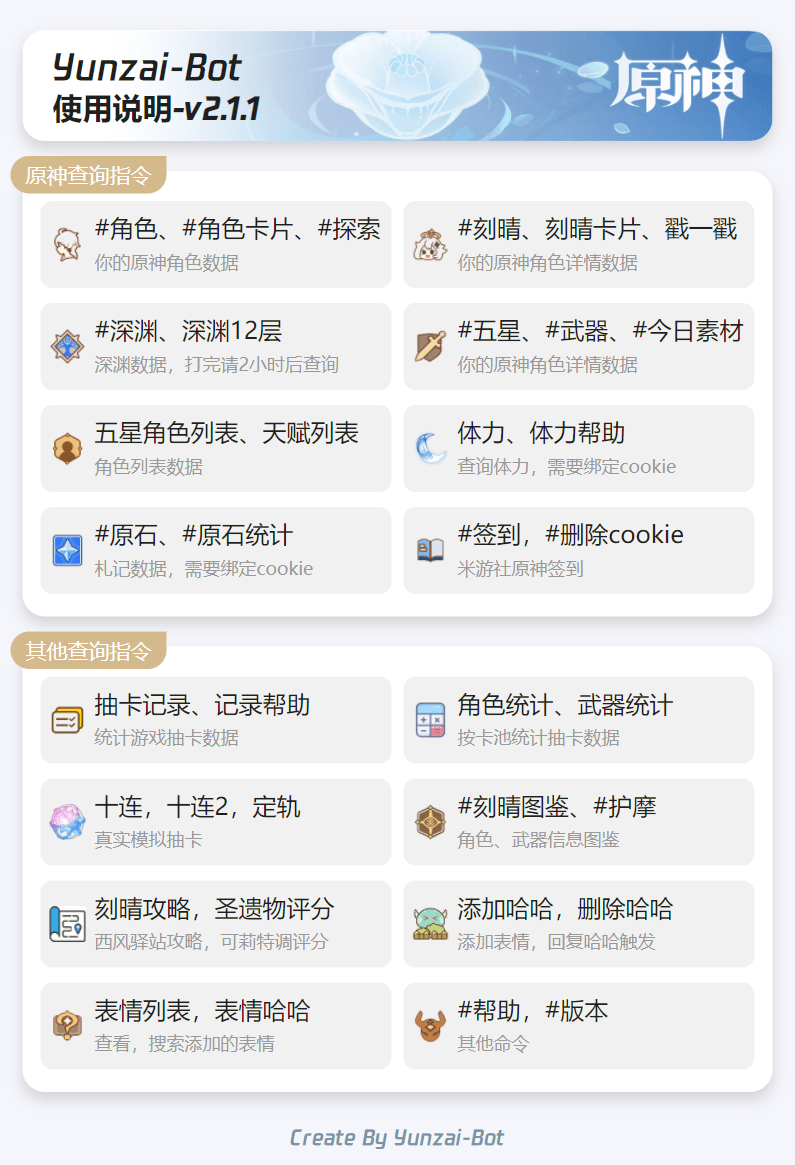
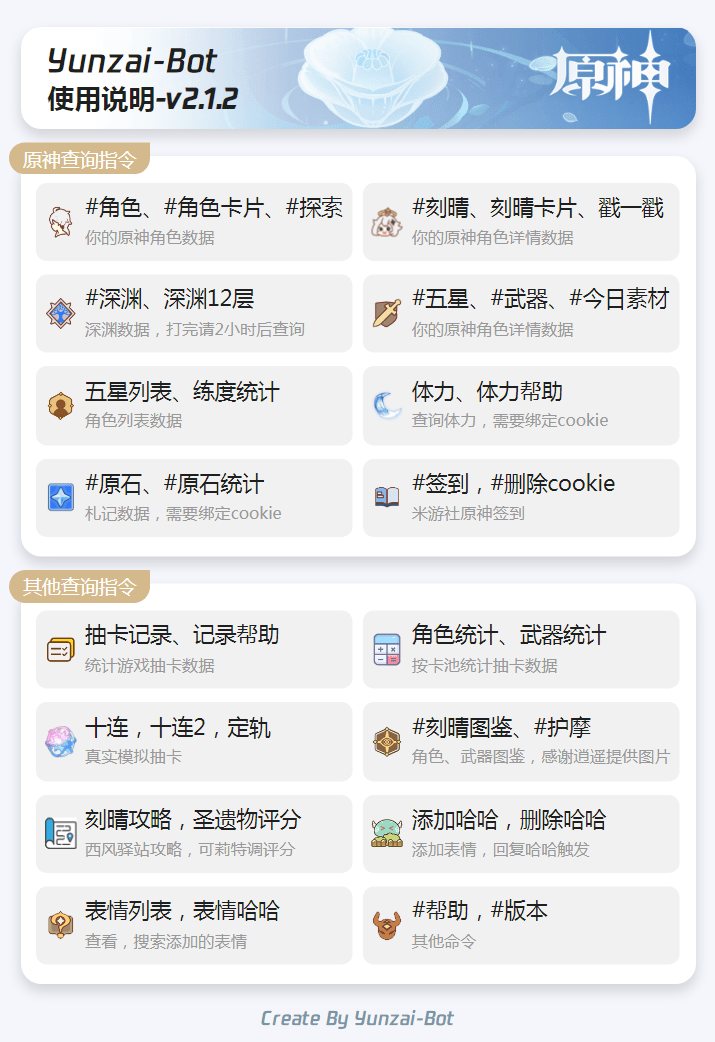
2.1.2

diff --git a/resources/help/help.html b/resources/help/help.html
@@ -11,7 +11,7 @@
     <div class="container" id="container">
       <div class="head_box">
         <div class="id_text">Yunzai-Bot</div>
-        <h2 class="day_text">使用说明-v2.1.1</h2>
+        <h2 class="day_text">使用说明-v2.1.2</h2>
         <img class="genshin_logo" src="../genshin/roleAll/原神.png" />
       </div>
       <div class="data_box">
@@ -48,7 +48,7 @@
           <div class="item">
             <img class="icon" src="./icon/team.png"/>
             <div class="title">
-              <div class="text">五星角色列表、天赋列表</div>
+              <div class="text">五星列表、练度统计</div>
               <div class="dec">角色列表数据</div>
             </div>
           </div>
@@ -94,7 +94,7 @@
             </div>
           </div>
           <div class="item">
-            <img class="icon" src="./icon/纠缠之缘.png" />
+            <img class="icon" src="./icon/纠缠之缘.webp" />
             <div class="title">
               <div class="text">十连，十连2，定轨</div>
               <div class="dec">真实模拟抽卡</div>
@@ -104,7 +104,7 @@
             <img class="icon" src="./icon/wiki.png"/>
             <div class="title">
               <div class="text">#刻晴图鉴、#护摩</div>
-              <div class="dec">角色、武器信息图鉴</div>
+              <div class="dec">角色、武器图鉴，感谢逍遥提供图片</div>
             </div>
           </div>
           <div class="item">

diff --git a/lib/app/dailyNote.js b/lib/app/dailyNote.js
@@ -788,6 +788,7 @@ export async function ledger(e) {
     Bot.logger.mark(`米游社ledgerInfo接口错误[${e.user_id}]:${JSON.stringify(ledgerInfo)}`);
     return true;
   }
+  e.nowData = ledgerInfo;
   ledgerInfo = ledgerInfo.data;
 
   //保存原石数据
@@ -891,13 +892,17 @@ async function save_ledger(e, uid, cookie) {
 
     if (NoteData[year][month] && NowMonth != month) continue;
 
-    let response = await ys_ledger(uid, cookie, month);
-    if (!response.ok) {
-      continue;
+    let ledgerInfo;
+    if(NowMonth == month && e.nowData){
+      ledgerInfo = e.nowData;
+    }else{
+      let response = await ys_ledger(uid, cookie, month);
+      if (!response.ok) {
+        continue;
+      }
+      ledgerInfo = await response.json();
     }
-
-    let ledgerInfo = await response.json();
-
+  
     if (ledgerInfo.retcode != 0) {
       Bot.logger.mark(`米游社ledgerInfo接口错误[${uid}]:${JSON.stringify(ledgerInfo)}`);
       continue;

diff --git a/lib/app/gacha.js b/lib/app/gacha.js
@@ -202,8 +202,12 @@ export async function gacha(e) {
 
     if (gachaData.today.role.length > 0) {
       msg += "\n今日五星：";
-      for (let val of gachaData.today.role) {
-        msg += `${val.name}(${val.num})\n`;
+      if(gachaData.today.role.length>=4){
+        msg += `${gachaData.today.role.length}个\n`
+      }else{
+        for (let val of gachaData.today.role) {
+          msg += `${val.name}(${val.num})\n`;
+        }
       }
       msg = msg.trim("\n");
 
@@ -401,6 +405,10 @@ export async function gacha(e) {
 
   if (isBigUP) {
     info += "大保底";
+  }
+
+  if (res5.length >= 4) {
+    info = "";
   }
 
   let base64 = await render("genshin", "gacha", {
@@ -721,6 +729,10 @@ async function gachaWeapon(e, gachaData, upW4, upW5) {
   }
   if (isBigUP) {
     info += "大保底";
+  }
+
+  if (res5.length >= 4) {
+    info = "";
   }
 
   let base64 = await render("genshin", "gacha", {

diff --git a/resources/genshin/ledger/ledger.html b/resources/genshin/ledger/ledger.html
@@ -63,6 +63,9 @@
   <script>
     const { Pie } = G2Plot;
     const data = JSON.parse(`{{@ group_by}}`);
+    if(!data || data.length<=0){
+      return;
+    }
     const piePlot = new Pie("chartContainer", {
       renderer: "svg",
       animation: false,

diff --git a/resources/help/help.css b/resources/help/help.css
@@ -56,7 +56,7 @@ body {
 .data_box {
   border-radius: 15px;
   margin-top: 20px;
-  margin-bottom: 20px;
+  margin-bottom: 15px;
   padding: 20px 8px 5px 8px;
   background: #fff;
   box-shadow: 0 5px 10px 0 rgb(0 0 0 / 15%);

diff --git a/resources/genshin/gacha/gacha.css b/resources/genshin/gacha/gacha.css
@@ -153,6 +153,7 @@ body {
   color: rgb(157 189 237 / 75%);
   font-size: 24px;
   font-family: 'tttgbnumber';
+  z-index: 1000;
 }
 .times {
   position: absolute;

diff --git a/resources/readme/更新日志.md b/resources/readme/更新日志.md
@@ -1,3 +1,11 @@
+### 2022-4-01
+- #角色，#探险，#角色卡片层岩更新
+- #体力增加参量质变仪
+- 新增圣遗物
+- 西风攻略更新
+- 新增config配置项，account.autoQuit
+- 更新夜兰，久岐忍素材
+
 ### 2022-3-27
 - #帮助说明更新
 - 新增#原石统计，查询后新增数据会自动保存
